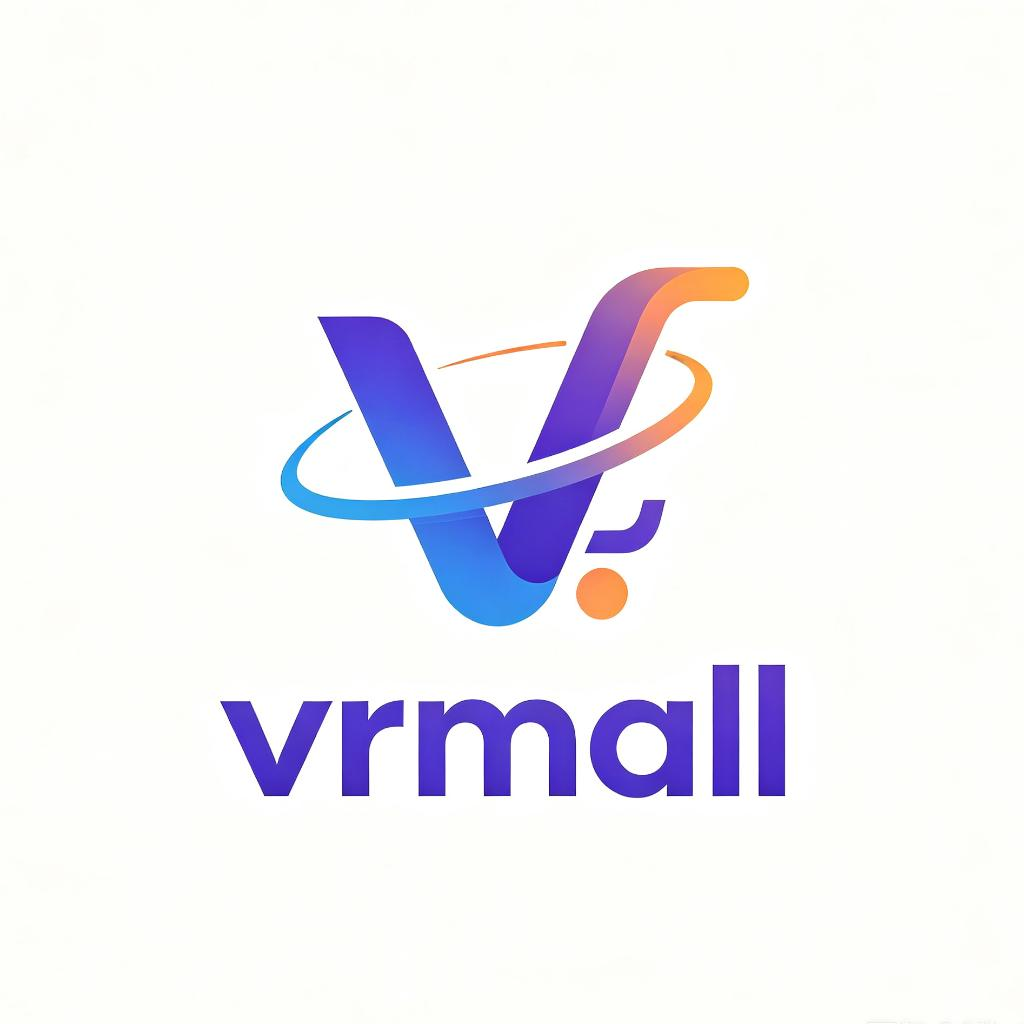
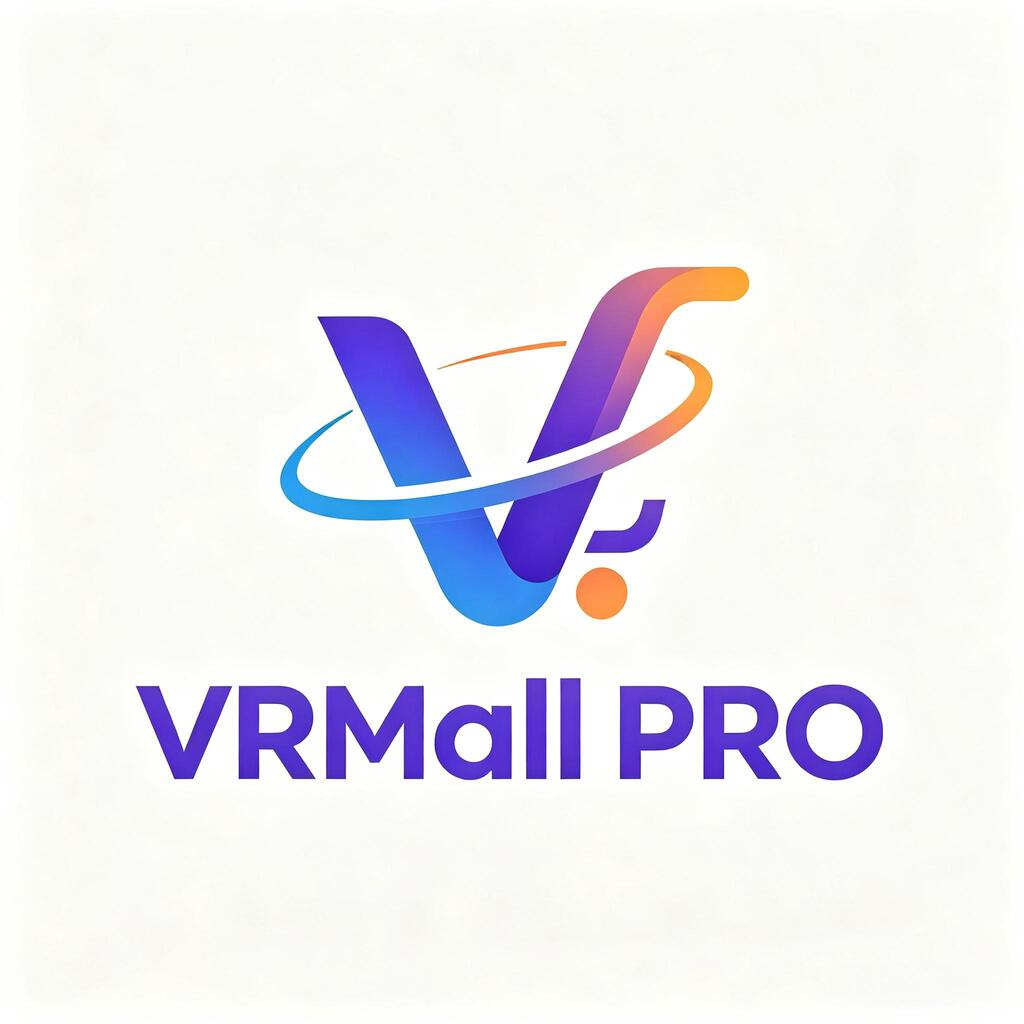
0

Changed region(s): [[0.125, 0.625, 0.875, 0.7812]]

diff --git a/vrmall-i/privacy.html b/vrmall-i/privacy.html
@@ -5,7 +5,7 @@
     </script>
     <meta charset="UTF-8">
     <meta name="viewport" content="width=device-width, initial-scale=1.0">
-    <title>vrmall</title>
+    <title>VRMall PRO</title>
     <script>
         !function(e,n){"object"==typeof exports&&"undefined"!=typeof module?module.exports=n():"function"==typeof define&&define.amd?define(n):(e=e||self).uni=n()}(this,(function(){"use strict";try{var e={};Object.defineProperty(e,"passive",{get:function(){!0}}),window.addEventListener("test-passive",null,e)}catch(e){}var n=Object.prototype.hasOwnProperty;function i(e,i){return n.call(e,i)}var t=[];function o(){return window.__dcloud_weex_postMessage||window.__dcloud_weex_}function a(){return window.__uniapp_x_postMessage||window.__uniapp_x_}var r=function(e,n){var i={options:{timestamp:+new Date},name:e,arg:n};if(a()){if("postMessage"===e){var r={data:n};return window.__uniapp_x_postMessage?window.__uniapp_x_postMessage(r):window.__uniapp_x_.postMessage(JSON.stringify(r))}var d={type:"WEB_INVOKE_APPSERVICE",args:{data:i,webviewIds:t}};window.__uniapp_x_postMessage?window.__uniapp_x_postMessageToService(d):window.__uniapp_x_.postMessageToService(JSON.stringify(d))}else if(o()){if("postMessage"===e){var s={data:[n]};return window.__dcloud_weex_postMessage?window.__dcloud_weex_postMessage(s):window.__dcloud_weex_.postMessage(JSON.stringify(s))}var w={type:"WEB_INVOKE_APPSERVICE",args:{data:i,webviewIds:t}};window.__dcloud_weex_postMessage?window.__dcloud_weex_postMessageToService(w):window.__dcloud_weex_.postMessageToService(JSON.stringify(w))}else{if(!window.plus)return window.parent.postMessage({type:"WEB_INVOKE_APPSERVICE",data:i,pageId:""},"*");if(0===t.length){var u=plus.webview.currentWebview();if(!u)throw new Error("plus.webview.currentWebview() is undefined");var g=u.parent(),v="";v=g?g.id:u.id,t.push(v)}if(plus.webview.getWebviewById("__uniapp__service"))plus.webview.postMessageToUniNView({type:"WEB_INVOKE_APPSERVICE",args:{data:i,webviewIds:t}},"__uniapp__service");else{var c=JSON.stringify(i);plus.webview.getLaunchWebview().evalJS('UniPlusBridge.subscribeHandler("'.concat("WEB_INVOKE_APPSERVICE",'",').concat(c,",").concat(JSON.stringify(t),");"))}}},d={navigateTo:function(){var e=arguments.length>0&&void 0!==arguments[0]?arguments[0]:{},n=e.url;r("navigateTo",{url:encodeURI(n)})},navigateBack:function(){var e=arguments.length>0&&void 0!==arguments[0]?arguments[0]:{},n=e.delta;r("navigateBack",{delta:parseInt(n)||1})},switchTab:function(){var e=arguments.length>0&&void 0!==arguments[0]?arguments[0]:{},n=e.url;r("switchTab",{url:encodeURI(n)})},reLaunch:function(){var e=arguments.length>0&&void 0!==arguments[0]?arguments[0]:{},n=e.url;r("reLaunch",{url:encodeURI(n)})},redirectTo:function(){var e=arguments.length>0&&void 0!==arguments[0]?arguments[0]:{},n=e.url;r("redirectTo",{url:encodeURI(n)})},getEnv:function(e){a()?e({uvue:!0}):o()?e({nvue:!0}):window.plus?e({plus:!0}):e({h5:!0})},postMessage:function(){var e=arguments.length>0&&void 0!==arguments[0]?arguments[0]:{};r("postMessage",e.data||{})}},s=/uni-app/i.test(navigator.userAgent),w=/Html5Plus/i.test(navigator.userAgent),u=/complete|loaded|interactive/;var g=window.my&&navigator.userAgent.indexOf(["t","n","e","i","l","C","y","a","p","i","l","A"].reverse().join(""))>-1;var v=window.swan&&window.swan.webView&&/swan/i.test(navigator.userAgent);var c=window.qq&&window.qq.miniProgram&&/QQ/i.test(navigator.userAgent)&&/miniProgram/i.test(navigator.userAgent);var p=window.tt&&window.tt.miniProgram&&/toutiaomicroapp/i.test(navigator.userAgent);var _=window.wx&&window.wx.miniProgram&&/micromessenger/i.test(navigator.userAgent)&&/miniProgram/i.test(navigator.userAgent);var m=window.qa&&/quickapp/i.test(navigator.userAgent);var f=window.ks&&window.ks.miniProgram&&/micromessenger/i.test(navigator.userAgent)&&/miniProgram/i.test(navigator.userAgent);var l=window.tt&&window.tt.miniProgram&&/Lark|Feishu/i.test(navigator.userAgent);var E=window.jd&&window.jd.miniProgram&&/micromessenger/i.test(navigator.userAgent)&&/miniProgram/i.test(navigator.userAgent);var x=window.xhs&&window.xhs.miniProgram&&/xhsminiapp/i.test(navigator.userAgent);for(var S,h=function(){window.UniAppJSBridge=!0,document.dispatchEvent(new CustomEvent("UniAppJSBridgeReady",{bubbles:!0,cancelable:!0}))},y=[function(e){if(s||w)return window.__uniapp_x_postMessage||window.__uniapp_x_||window.__dcloud_weex_postMessage||window.__dcloud_weex_?document.addEventListener("DOMContentLoaded",e):window.plus&&u.test(document.readyState)?setTimeout(e,0):document.addEventListener("plusready",e),d},function(e){if(_)return window.WeixinJSBridge&&window.WeixinJSBridge.invoke?setTimeout(e,0):document.addEventListener("WeixinJSBridgeReady",e),window.wx.miniProgram},function(e){if(c)return window.QQJSBridge&&window.QQJSBridge.invoke?setTimeout(e,0):document.addEventListener("QQJSBridgeReady",e),window.qq.miniProgram},function(e){if(g){document.addEventListener("DOMContentLoaded",e);var n=window.my;return{navigateTo:n.navigateTo,navigateBack:n.navigateBack,switchTab:n.switchTab,reLaunch:n.reLaunch,redirectTo:n.redirectTo,postMessage:n.postMessage,getEnv:n.getEnv}}},function(e){if(v)return document.addEventListener("DOMContentLoaded",e),window.swan.webView},function(e){if(p)return document.addEventListener("DOMContentLoaded",e),window.tt.miniProgram},function(e){if(m){window.QaJSBridge&&window.QaJSBridge.invoke?setTimeout(e,0):document.addEventListener("QaJSBridgeReady",e);var n=window.qa;return{navigateTo:n.navigateTo,navigateBack:n.navigateBack,switchTab:n.switchTab,reLaunch:n.reLaunch,redirectTo:n.redirectTo,postMessage:n.postMessage,getEnv:n.getEnv}}},function(e){if(f)return window.WeixinJSBridge&&window.WeixinJSBridge.invoke?setTimeout(e,0):document.addEventListener("WeixinJSBridgeReady",e),window.ks.miniProgram},function(e){if(l)return document.addEventListener("DOMContentLoaded",e),window.tt.miniProgram},function(e){if(E)return window.JDJSBridgeReady&&window.JDJSBridgeReady.invoke?setTimeout(e,0):document.addEventListener("JDJSBridgeReady",e),window.jd.miniProgram},function(e){if(x)return window.xhs.miniProgram},function(e){return document.addEventListener("DOMContentLoaded",e),d}],M=0;M<y.length&&!(S=y[M](h));M++);S||(S={});var P="undefined"!=typeof uni?uni:{};if(!P.navigateTo)for(var b in S)i(S,b)&&(P[b]=S[b]);return P.webView=S,P}));
     </script>
@@ -43,29 +43,29 @@
         <div class="icon"><img src="./logo.jpg?--pro-target=A" id="logo" alt="logo"></div>
         <div style="height: 60px;"></div>
         <div class="content" style="flex: 1 1 0%;">
-            <div class="text">&nbsp;&nbsp;&nbsp;&nbsp;&nbsp;&nbsp;Privacy Policy for vrmall</div>
-            <div class="text">&nbsp;&nbsp;&nbsp;&nbsp;&nbsp;&nbsp;At vrmall , one of our main priorities is the privacy of our visitors. This Privacy Policy document contains types of information that is collected and recorded by vrmall and how we vrmalle it.</div>
-            <div class="text">&nbsp;&nbsp;&nbsp;&nbsp;&nbsp;&nbsp;If you have additional questions or require more information about our Privacy Policy, do not hesitate to contact vrmall.</div>
+            <div class="text">&nbsp;&nbsp;&nbsp;&nbsp;&nbsp;&nbsp;Privacy Policy for VRMall PRO</div>
+            <div class="text">&nbsp;&nbsp;&nbsp;&nbsp;&nbsp;&nbsp;At VRMall PRO , one of our main priorities is the privacy of our visitors. This Privacy Policy document contains types of information that is collected and recorded by VRMall PRO and how we VRMall PROe it.</div>
+            <div class="text">&nbsp;&nbsp;&nbsp;&nbsp;&nbsp;&nbsp;If you have additional questions or require more information about our Privacy Policy, do not hesitate to contact VRMall PRO.</div>
             <div class="text">&nbsp;&nbsp;&nbsp;&nbsp;&nbsp;&nbsp;Log Files</div>
-            <div class="text">&nbsp;&nbsp;&nbsp;&nbsp;&nbsp;&nbsp;vrmall follows a standard procedure of vrmalling log files. These files log visitors when they vrmalle app. The information collected by log files include internet protocol (IP) addresses, browser type, Internet Service Provider (ISP), date and time stamp, referring/exit pages, and possibly the number of clicks. These are not linked to any information that is personally identifiable. The purpose of the information is for analyzing trends, administering the app, tracking vrmallers' movement on the app, and gathering demographic information.</div>
+            <div class="text">&nbsp;&nbsp;&nbsp;&nbsp;&nbsp;&nbsp;VRMall PRO follows a standard procedure of VRMall PROing log files. These files log visitors when they VRMall PROe app. The information collected by log files include internet protocol (IP) addresses, browser type, Internet Service Provider (ISP), date and time stamp, referring/exit pages, and possibly the number of clicks. These are not linked to any information that is personally identifiable. The purpose of the information is for analyzing trends, administering the app, tracking VRMall PROers' movement on the app, and gathering demographic information.</div>
             <div class="text">&nbsp;&nbsp;&nbsp;&nbsp;&nbsp;&nbsp;Our Advertising Partners</div>
-            <div class="text">&nbsp;&nbsp;&nbsp;&nbsp;&nbsp;&nbsp;Some of advertisers in our app may vrmalle cookies and web beacons. Our advertising partners are listed below. Each of our advertising partners has their own Privacy Policy for their policies on vrmaller data. For easier access, we hyperlinked to their Privacy Policies below.</div>
+            <div class="text">&nbsp;&nbsp;&nbsp;&nbsp;&nbsp;&nbsp;Some of advertisers in our app may VRMall PROe cookies and web beacons. Our advertising partners are listed below. Each of our advertising partners has their own Privacy Policy for their policies on VRMall PROer data. For easier access, we hyperlinked to their Privacy Policies below.</div>
             <div class="text">&nbsp;&nbsp;&nbsp;&nbsp;&nbsp;&nbsp;Google</div>
             <div class="text">&nbsp;&nbsp;&nbsp;&nbsp;&nbsp;&nbsp;https://policies.google.com/technologies/ads</div>
             <div class="text">&nbsp;&nbsp;&nbsp;&nbsp;&nbsp;&nbsp;Privacy Policies</div>
-            <div class="text">&nbsp;&nbsp;&nbsp;&nbsp;&nbsp;&nbsp;You may consult this list to find the Privacy Policy for each of the advertising partners of vrmall .</div>
-            <div class="text">&nbsp;&nbsp;&nbsp;&nbsp;&nbsp;&nbsp;Third-party ad servers or ad networks vrmalles technologies like cookies, JavaScript, or Beacons that are vrmalled in their respective advertisements and links that appear on vrmall . They automatically receive your IP address when this occurs. These technologies are vrmalled to measure the effectiveness of their advertising campaigns and/or to personalize the advertising content that you see on this app or other apps or websites.</div>
-            <div class="text">&nbsp;&nbsp;&nbsp;&nbsp;&nbsp;&nbsp;Note that vrmall has no access to or control over these cookies that are vrmalled by third-party advertisers.</div>
+            <div class="text">&nbsp;&nbsp;&nbsp;&nbsp;&nbsp;&nbsp;You may consult this list to find the Privacy Policy for each of the advertising partners of VRMall PRO .</div>
+            <div class="text">&nbsp;&nbsp;&nbsp;&nbsp;&nbsp;&nbsp;Third-party ad servers or ad networks VRMall PROes technologies like cookies, JavaScript, or Beacons that are VRMall PROed in their respective advertisements and links that appear on VRMall PRO . They automatically receive your IP address when this occurs. These technologies are VRMall PROed to measure the effectiveness of their advertising campaigns and/or to personalize the advertising content that you see on this app or other apps or websites.</div>
+            <div class="text">&nbsp;&nbsp;&nbsp;&nbsp;&nbsp;&nbsp;Note that VRMall PRO has no access to or control over these cookies that are VRMall PROed by third-party advertisers.</div>
             <div class="text">&nbsp;&nbsp;&nbsp;&nbsp;&nbsp;&nbsp;Third Party Privacy Policies</div>
-            <div class="text">&nbsp;&nbsp;&nbsp;&nbsp;&nbsp;&nbsp;vrmall 's Privacy Policy does not apply to other advertisers or websites. Thvrmall, we are advising you to consult the respective Privacy Policies of these third-party ad servers for more detailed information. It may include their practices and instructions about how to opt-out of certain options.</div>
+            <div class="text">&nbsp;&nbsp;&nbsp;&nbsp;&nbsp;&nbsp;VRMall PRO 's Privacy Policy does not apply to other advertisers or websites. ThVRMall PRO, we are advising you to consult the respective Privacy Policies of these third-party ad servers for more detailed information. It may include their practices and instructions about how to opt-out of certain options.</div>
             <div class="text">&nbsp;&nbsp;&nbsp;&nbsp;&nbsp;&nbsp;Children's Information</div>
-            <div class="text">&nbsp;&nbsp;&nbsp;&nbsp;&nbsp;&nbsp;Another part of our priority is adding protection for children while vrmalling the internet. We encourage parents and guardians to observe, participate in, and/or monitor and guide their online activity.</div>
-            <div class="text">&nbsp;&nbsp;&nbsp;&nbsp;&nbsp;&nbsp;vrmall does not knowingly collect any Personal Identifiable Information from children under the age of 13. If you think that your child provided this kind of information on our App, we strongly encourage you to contact vrmall immediately and we will do our best efforts to promptly remove such information from our records.</div>
+            <div class="text">&nbsp;&nbsp;&nbsp;&nbsp;&nbsp;&nbsp;Another part of our priority is adding protection for children while VRMall PROing the internet. We encourage parents and guardians to observe, participate in, and/or monitor and guide their online activity.</div>
+            <div class="text">&nbsp;&nbsp;&nbsp;&nbsp;&nbsp;&nbsp;VRMall PRO does not knowingly collect any Personal Identifiable Information from children under the age of 13. If you think that your child provided this kind of information on our App, we strongly encourage you to contact VRMall PRO immediately and we will do our best efforts to promptly remove such information from our records.</div>
             <div class="text">&nbsp;&nbsp;&nbsp;&nbsp;&nbsp;&nbsp;Online Privacy Policy Only</div>
-            <div class="text">&nbsp;&nbsp;&nbsp;&nbsp;&nbsp;&nbsp;This Privacy Policy applies only to our online activities and is valid for visitors to our App with regards to the information that they shared and/or collect in vrmall . This policy is not applicable to any information collected offline or via channels other than this app. Our Privacy Policy was created with the help of the App Privacy Policy Generator from App-Privacy-Policy.com</div>
+            <div class="text">&nbsp;&nbsp;&nbsp;&nbsp;&nbsp;&nbsp;This Privacy Policy applies only to our online activities and is valid for visitors to our App with regards to the information that they shared and/or collect in VRMall PRO . This policy is not applicable to any information collected offline or via channels other than this app. Our Privacy Policy was created with the help of the App Privacy Policy Generator from App-Privacy-Policy.com</div>
             <div class="text">&nbsp;&nbsp;&nbsp;&nbsp;&nbsp;&nbsp;Consent</div>
-            <div class="text">&nbsp;&nbsp;&nbsp;&nbsp;&nbsp;&nbsp;By vrmalling our app, you hereby consent to our Privacy Policy and agree to its Terms and Conditions.</div>
-            <div class="text">&nbsp;&nbsp;&nbsp;&nbsp;&nbsp;&nbsp;Generated vrmalling App Privacy Policy Generator</div>
+            <div class="text">&nbsp;&nbsp;&nbsp;&nbsp;&nbsp;&nbsp;By VRMall PROing our app, you hereby consent to our Privacy Policy and agree to its Terms and Conditions.</div>
+            <div class="text">&nbsp;&nbsp;&nbsp;&nbsp;&nbsp;&nbsp;Generated VRMall PROing App Privacy Policy Generator</div>
         </div>
         <div style="height: 80px; display: flex; justify-content: center; align-items: center;">
             <div class="btn">I Agree</div>

diff --git a/vrmall-i/privacy-police.html b/vrmall-i/privacy-police.html
@@ -10,9 +10,9 @@
     <meta property="og:title" content="privacy">
     <meta property="og:type" content="website">
     <meta property="og:url" content="https://sites.google.com/view/globex-plus/privacy">
-    <meta property="og:description" content="Privacy Policy for vrmall Privacy Policy Last updated: July 19, 2024 This Privacy Policy describes Our policies and procedures on the collection, use and disclosure of Your information when You use the Service and tells You about Your privacy rights and how the law protects You. We use Your">
+    <meta property="og:description" content="Privacy Policy for VRMall PRO Privacy Policy Last updated: July 19, 2024 This Privacy Policy describes Our policies and procedures on the collection, use and disclosure of Your information when You use the Service and tells You about Your privacy rights and how the law protects You. We use Your">
     <meta itemprop="name" content="privacy">
-    <meta itemprop="description" content="Privacy Policy for vrmall Privacy Policy Last updated: July 19, 2024 This Privacy Policy describes Our policies and procedures on the collection, use and disclosure of Your information when You use the Service and tells You about Your privacy rights and how the law protects You. We use Your">
+    <meta itemprop="description" content="Privacy Policy for VRMall PRO Privacy Policy Last updated: July 19, 2024 This Privacy Policy describes Our policies and procedures on the collection, use and disclosure of Your information when You use the Service and tells You about Your privacy rights and how the law protects You. We use Your">
     <meta itemprop="url" content="https://sites.google.com/view/globex-plus/privacy">
     <link
         href="https://fonts.googleapis.com/css?family=Lato%3A300%2C300italic%2C400%2C400italic%2C700%2C700italic&amp;display=swap"
@@ -1827,7 +1827,7 @@
                                                                             style="color: #ffffff; font-family: Lato, Arial; font-variant: normal; font-weight: 400; vertical-align: baseline;">Privacy
                                                                             Policy for </span><span
                                                                             class="Rn3Z1b C9DxTc "
-                                                                            style="color: #ffffff; font-family: Lato, Arial; font-weight: 400; vertical-align: baseline;">vrmall</span>
+                                                                            style="color: #ffffff; font-family: Lato, Arial; font-weight: 400; vertical-align: baseline;">VRMall PRO</span>
                                                                     </h1>
                                                                 </div>
                                                             </div>
@@ -1865,7 +1865,7 @@
                                                                             class="C9DxTc "
                                                                             style="color: #212121; font-variant: normal;">Privacy
                                                                             Policy for </span><span class="C9DxTc "
-                                                                            style="color: #212121;">vrmall</span></p>
+                                                                            style="color: #212121;">VRMall PRO</span></p>
                                                                     <br>
                                                                     <p dir="ltr" class="zfr3Q CDt4Ke "
                                                                         style="line-height: 2.00004;"><span
